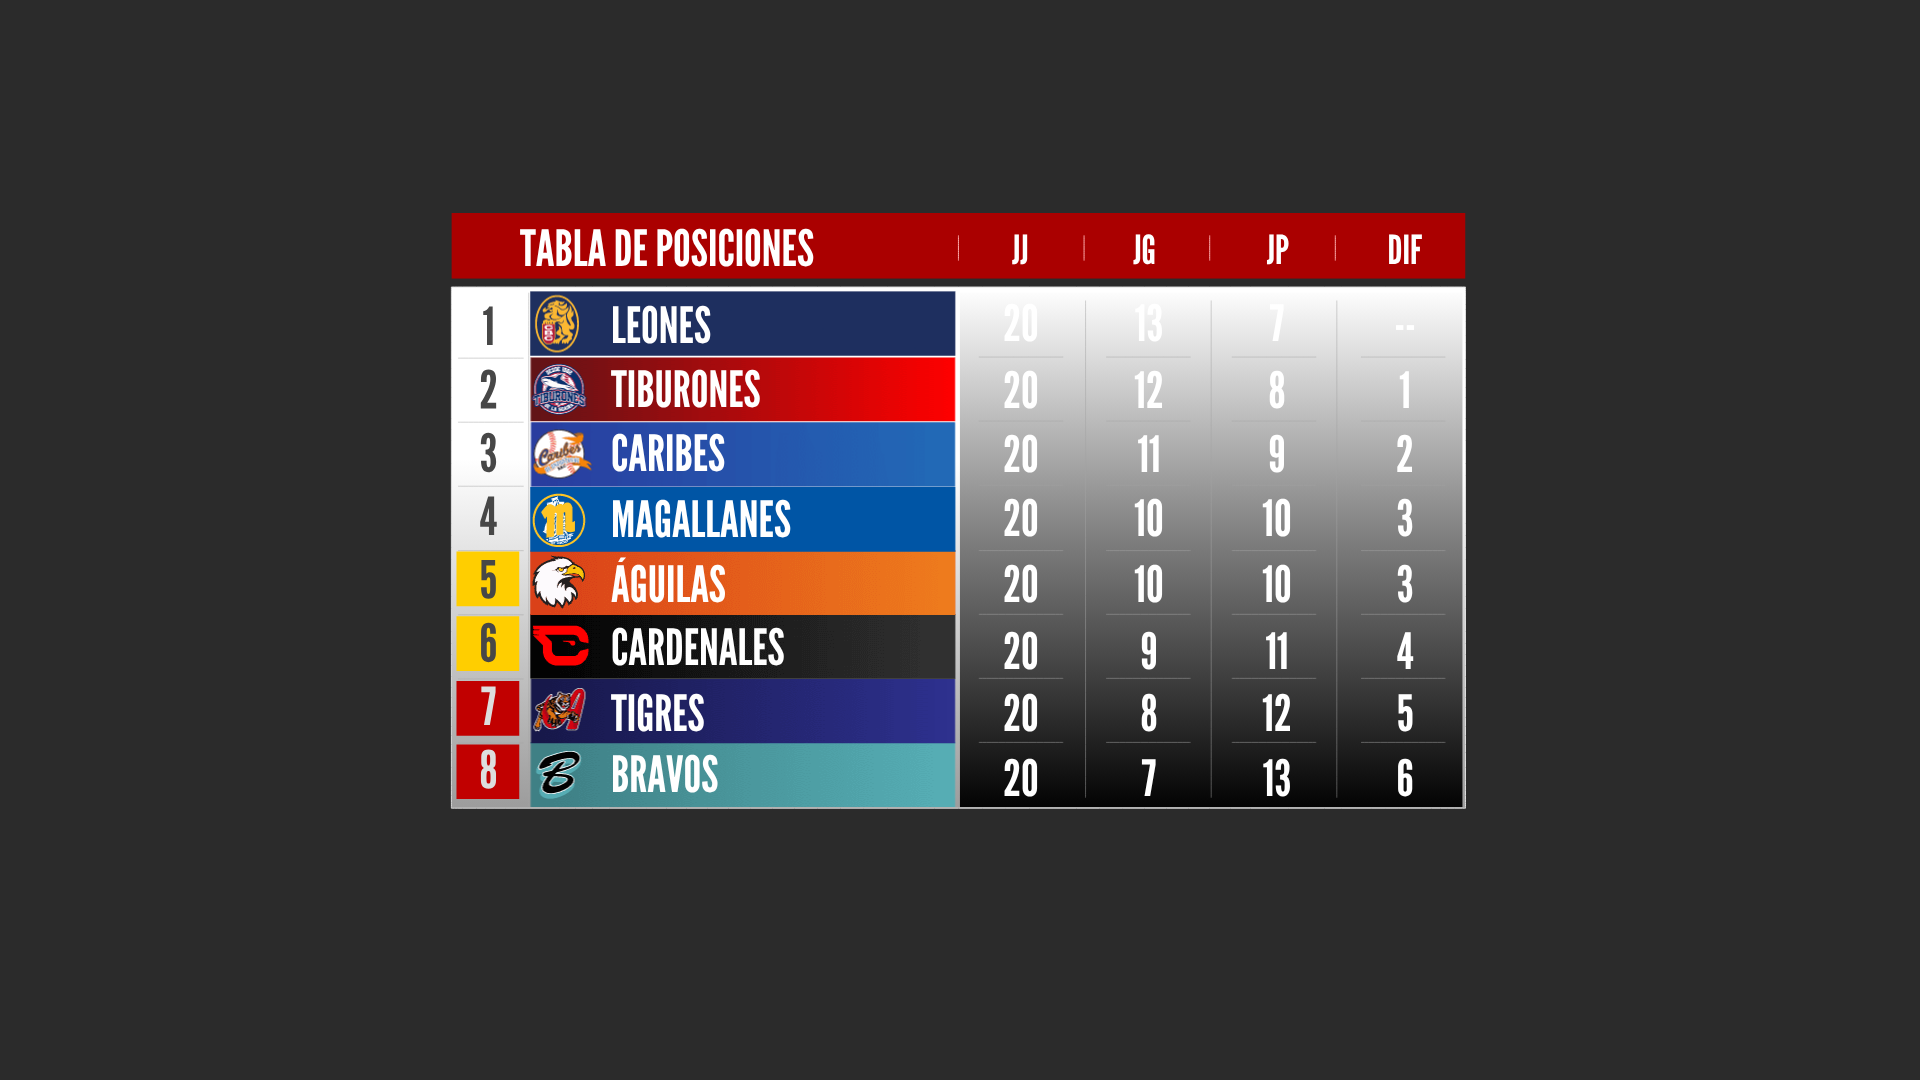
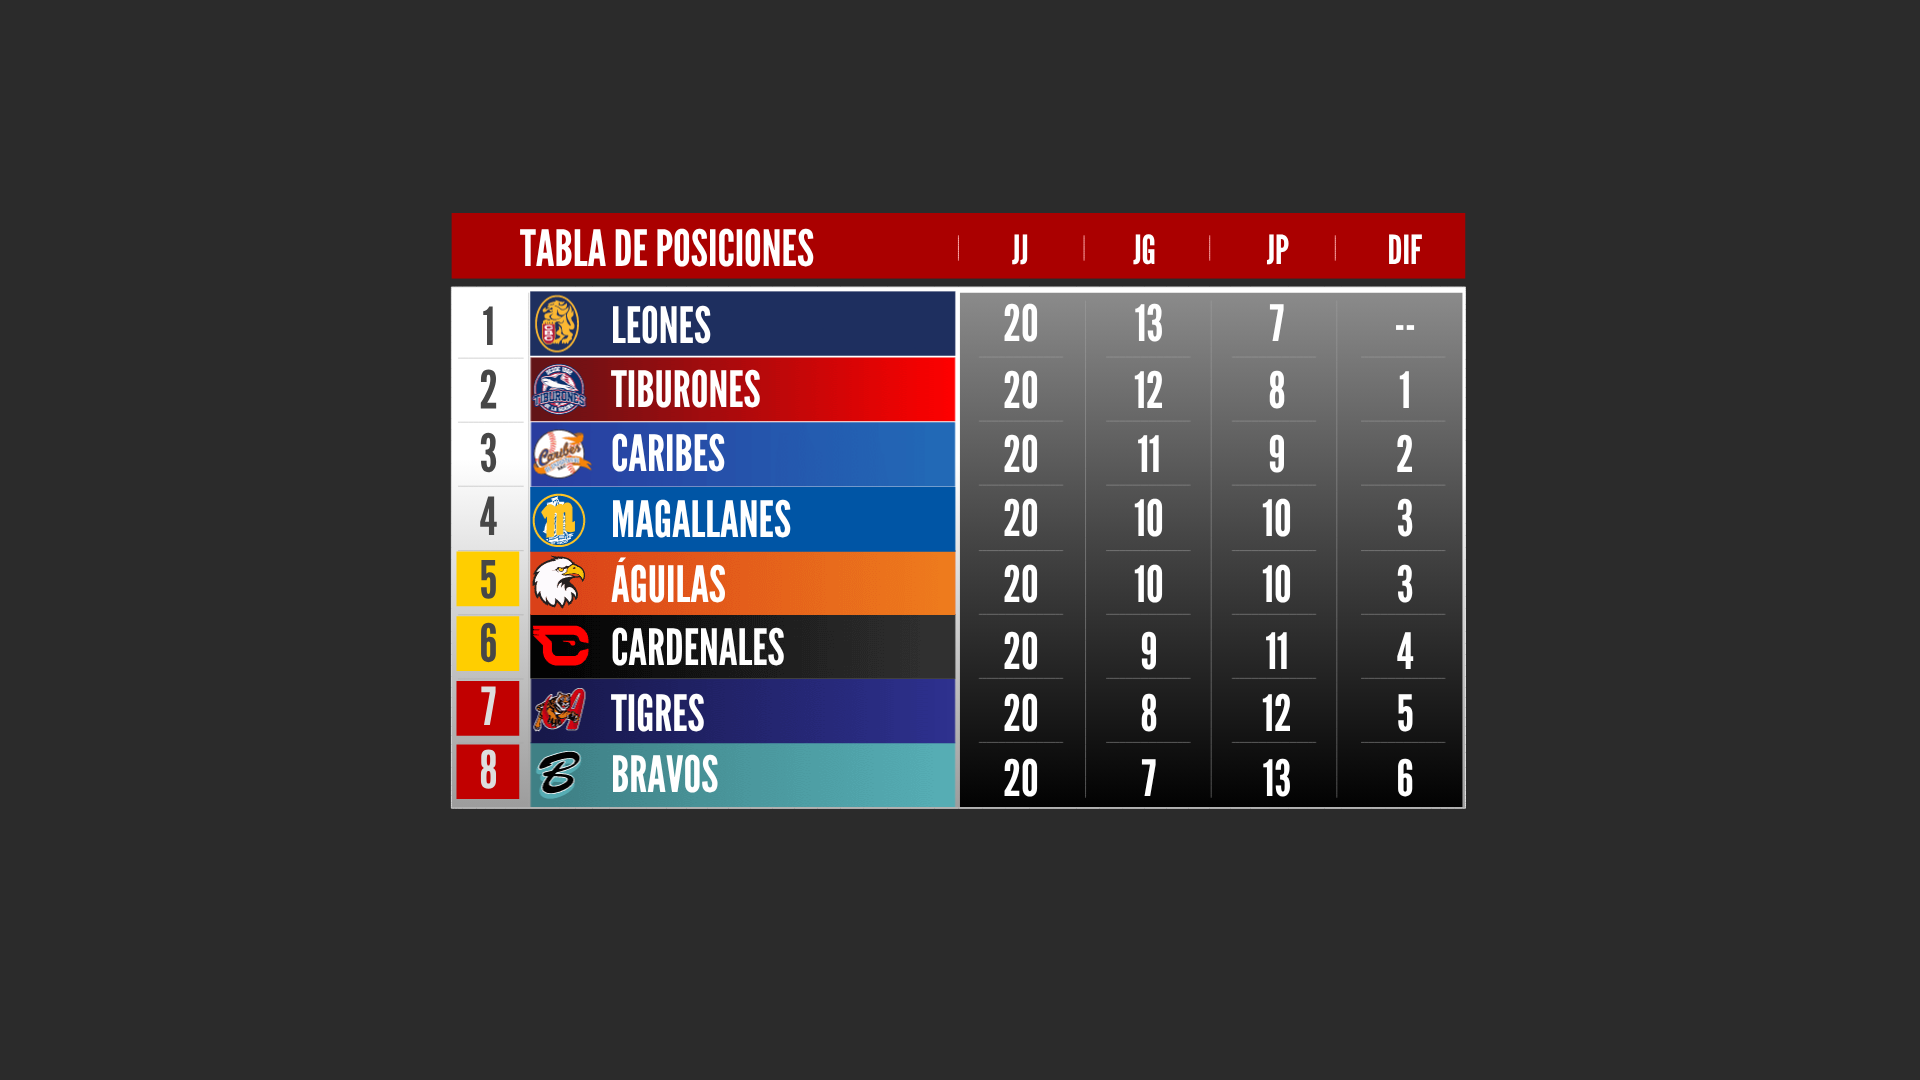
Tabla de posiciones: la columna de los números arranca en gris
Los números blancos casi no se leían sobre el blanco del degradado en las
filas 1 y 2: arriba va gris 0.55 y baja a la mitad en el mismo punto.

Claude-Session: https://claude.ai/code/session_01DM7A4Gio4zgfPRgCd3Y6m3

Changed region(s): [[0.5, 0.2444, 0.7812, 0.6417]]

diff --git a/herramientas/prep.js b/herramientas/prep.js
@@ -994,6 +994,8 @@ if (hay('himno nacional')) {
 // barras apiladas, <SIGLAS><n>_opacidad, para que el controlador arme las dos igual.
 const ENTRADA_POS = 57; // los nombres terminan de aparecer en el 56
 const POS_MARGEN = 8; // px entre el final del nombre y el de la barra
+const POS_GRIS = 0.55; // el arriba de la columna de los números (el export, blanco)
+const POS_DEGRADADO_EXPORT = [0, 0.294, 0.294, 0.294, 0, 0.647, 0.647, 0.647, 0, 1, 1, 1, 0.466, 0.5, 0.5, 0.5, 1, 0, 0, 0];
 const POS_COLUMNAS = { JUEGOSJUGADOS: 'JJ', JUEGOSGANADOS: 'JG', JUEGOSPERDIDOS: 'JP', JUEGOSDIFERENCIA: 'DIF' };
 const POS_EQUIPOS = { AGUILAS: 'AGUI', BRAVOS: 'BRAVOS', CARDENALES: 'CARD', CARIBES: 'ANZ', LEONES: 'LEO', MAGALLANES: 'MAGA', TIBURONES: 'TIBUS', TIGRES: 'TIGRES' };
 if (hay('TABLA DE POSICIONES')) {
@@ -1067,6 +1069,15 @@ if (hay('TABLA DE POSICIONES')) {
     delete mate.tt;
     delete mate.tp;
     d.layers.splice(d.layers.indexOf(logo), 0, mate);
+
+    // La columna de los números llega con un degradado de blanco (arriba) a negro, y los números
+    // son blancos: en las filas 1 y 2 casi no se leían. Arranca en gris (POS_GRIS) y baja a la
+    // mitad en el mismo punto del export (Leon, 2026-10-28, entre ése y 0.45).
+    const columna = layer(d, 'BASE/TABLA DE POSICIONES Outlines').shapes.find(g => g.nm === 'Group 40');
+    const degradado = columna && columna.it.find(i => i.ty === 'gf');
+    if (!degradado || JSON.stringify(degradado.g.k.k) !== JSON.stringify(POS_DEGRADADO_EXPORT)) throw new Error('posiciones: el degradado de los números cambió');
+    const g = POS_GRIS, m = POS_GRIS / 2;
+    degradado.g.k.k = [0, g, g, g, 0, g, g, g, 0, g, g, g, 0.466, m, m, m, 1, 0, 0, 0];
 
     // Los textos fijos, con clase como los de score: POSICIONES (la caja roja de la entrada), el
     // título de la tabla y los rótulos de las columnas (un solo texto, con espacios).

diff --git a/CLAUDE.md b/CLAUDE.md
@@ -240,8 +240,9 @@ Cada export de AE trae los nombres crudos y hay que repetir la preparación. Bus
   de una capa que se ve donde no debería. En `duelo_lanzadores`, lo mismo con los `ind` 55 y 58
   (el logo y EL DUELO): `unLogo()` y `enLaCaja()`.
 - **Contraste:** en `posiciones` la columna de los números es un degradado de blanco (arriba) a
-  negro, con los números en blanco: en las filas 1 y 2 casi no se leen. Así llega del export
-  (en el JSON es el mismo degradado; queda como está hasta que lo vea el diseñador o Leon).
+  negro, con los números en blanco: en las filas 1 y 2 casi no se leían. Arranca en gris 0.55
+  (`POS_GRIS` en `prep.js`) y baja a la mitad en el mismo punto del export (Leon, 2026-10-28,
+  entre ése y 0.45). Si el diseñador lo arregla, `prep.js` falla: sacar el arreglo.
 - **Markers:** los del diseñador (`start`, `loop`, `hold`…) se reemplazan por los de la tabla de
   arriba. Si cambia la duración de la entrada, `play` y `salida` van al último keyframe real, no
   al `start` del diseñador. `prevenido` llegó sin markers y con la comp de 32 s: queda en 90 frames
